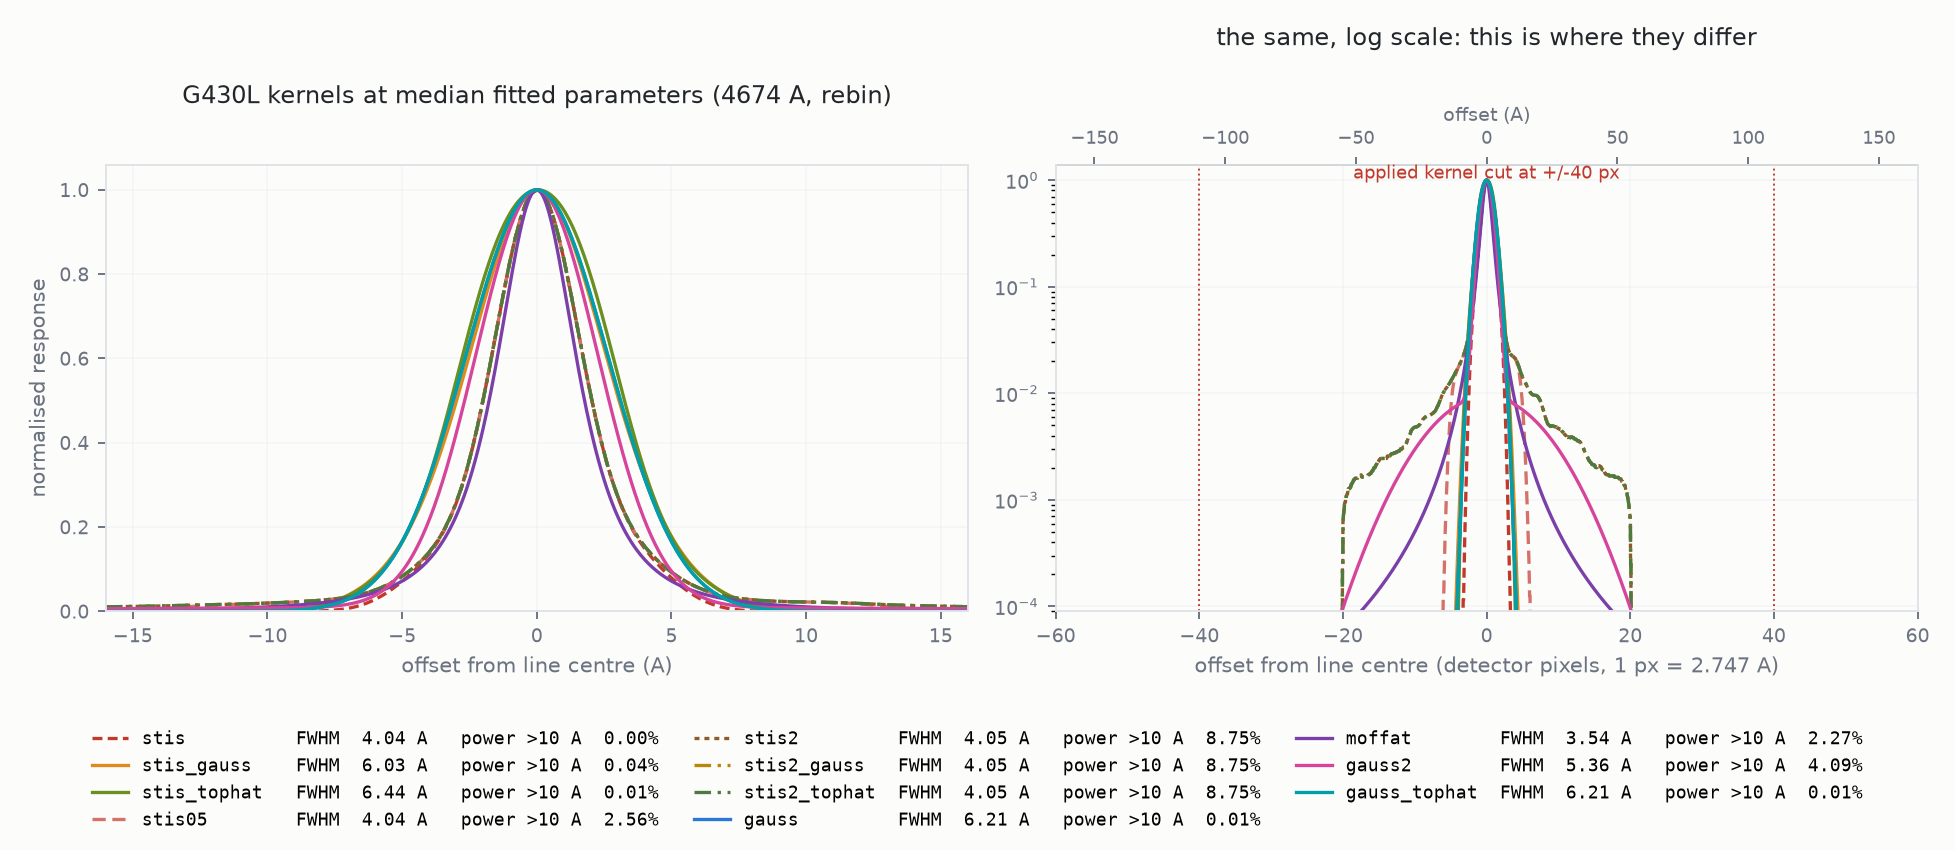
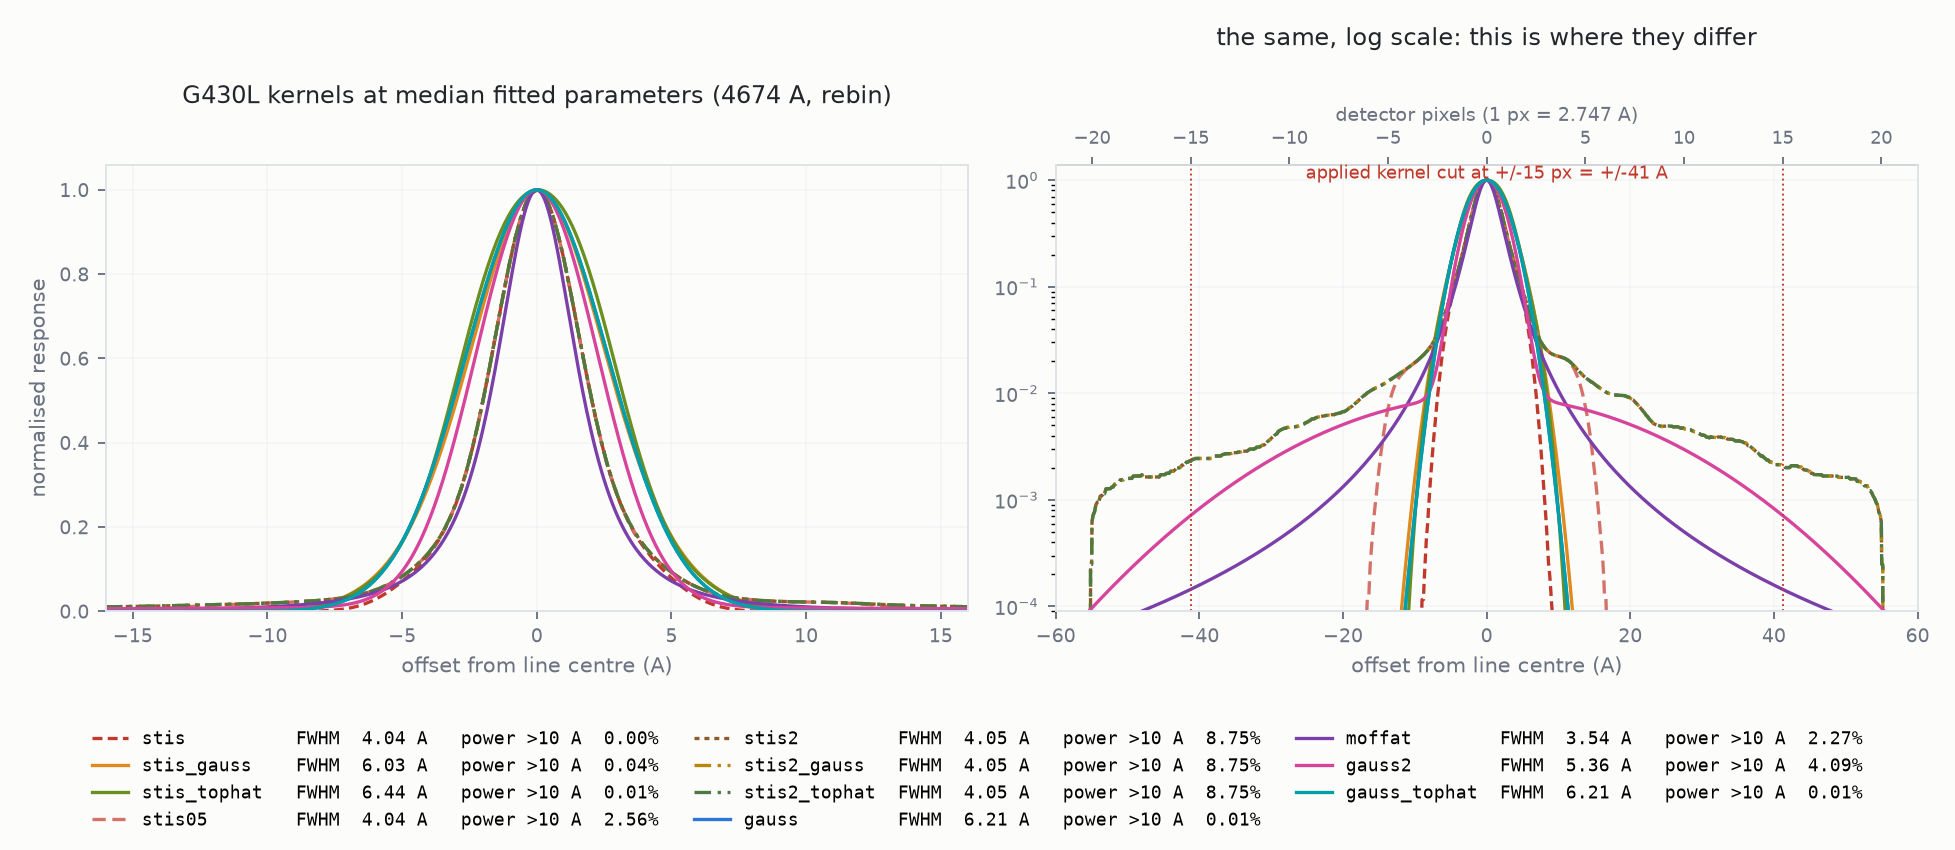
Cut the Moffat at +/-15 px; put the kernel log panel back on an Angstrom axis
TRUNCATION 40 px -> 15 px, i.e. 41 A on G430L and 73 A on G750L. The empirical
STIS profiles are compact -- they stop at +/-20 px -- and a kernel reaching
300 A makes a claim about scattered light at a distance nothing in this project
measures. Keeping the profile's effect local is the point.

The cost was measured, not assumed. Convolving a line-rich spectrum on ONE
uniform grid with no segment edges in it, against a +/-300 A (109 px) kernel,
over an interior window:

    +/-10 px  27 A    max 2.4e-04   rms 5.8e-05
    +/-15 px  41 A    max 9.8e-05   rms 2.6e-05   <- adopted
    +/-20 px  55 A    max 5.8e-05   rms 1.4e-05
    +/-40 px 110 A    max 1.2e-05   rms 3.2e-06

1e-4 is two orders below the 1% calibration floor the NGSL bands carry. End to
end, 15 px against the previous 40 px moves the smoothed model flux by 1.9e-4
max on G430L and 1.0e-4 on G750L, so nothing downstream was regenerated.

A trap worth recording: comparing truncations THROUGH broaden_ngsl rather than
through a bare convolution mixes in the per-segment edge replication, whose
margin also scales with the truncation radius. Done that way the comparison
comes out non-monotonic -- 40 px looking worse than 20 px on G750L -- which is
the edges moving and not the kernel. That is why the table above is from a
single uniform grid.

THE FIGURE. The log panel's x axis goes back to ANGSTROMS at +/-60, with
detector pixels as the secondary scale on top, which is the right way round:
[…]

diff --git a/explore/ngsl_lsf.py b/explore/ngsl_lsf.py
@@ -932,18 +932,24 @@ def plot_star(star, grating, lo, hi, wn, fn, ok, core, lines, drawn, best,
     print(f'    -> {out.relative_to(ROOT)}')
 
 
-def plot_kernels(rows, grating='G430L', half_px=60.0):
+def plot_kernels(rows, grating='G430L', half_A=60.0):
     """The profiles themselves, at the median fitted parameters.
 
-    The log panel runs to +/-`half_px` DETECTOR PIXELS, which is wider than the
-    +/-KERNEL_HALF grid the fits are done on, so the kernels are rebuilt here on
-    a grid that covers it. The FWHM and wing numbers in the legend are still
-    computed on the fitting grid, so they match data/ngsl_lsf.csv rather than
-    drifting with whatever the plot happens to show.
+    The log panel runs to +/-`half_A` ANGSTROMS, with a secondary axis in
+    detector pixels: the tabulated profiles stop at +/-20 px and the applied
+    truncation is stated in pixels, while the widths are in Angstroms, and
+    reading one off an axis in the other unit is an easy way to think a kernel
+    has changed when only its label has.
 
-    Pixels on the log panel because that is the unit the adopted truncation is
-    stated in (common.lsf.NGSL_TRUNC_PX), and the truncation is drawn on it --
-    a profile's behaviour outside that radius is not applied to anything.
+    The panel is widened past `half_A` if it would otherwise cut off the
+    truncation marker, which happens on G750L: 15 px is 41 A there on G430L but
+    73 A on G750L. A figure that annotates a line you cannot see is worse than
+    a slightly wider axis.
+
+    The kernels are rebuilt here on a grid covering the panel, which is wider
+    than the +/-KERNEL_HALF grid the fits are done on. The FWHM and wing numbers
+    in the legend are still computed on the FITTING grid, so they match
+    data/ngsl_lsf.csv rather than drifting with whatever the plot shows.
     """
     from common.specplot import style, SURFACE, INK, MUTED, HELD_C
     from common.lsf import NGSL_TRUNC_PX
@@ -952,7 +958,8 @@ def plot_kernels(rows, grating='G430L', half_px=60.0):
     lo, hi = dict((g[0], (g[1], g[2])) for g in GRATINGS)[grating]
     lam = 0.5 * (lo + hi)
     dl = np.arange(-KERNEL_HALF, KERNEL_HALF + STEP / 2, STEP)
-    wide = half_px * disp
+    trunc_A = NGSL_TRUNC_PX * disp
+    wide = max(half_A, 1.12 * trunc_A)
     dlw = np.arange(-wide, wide + STEP / 2, STEP)
 
     fig, ax = plt.subplots(1, 2, figsize=(11.5, 5.0))
@@ -974,7 +981,7 @@ def plot_kernels(rows, grating='G430L', half_px=60.0):
         lab = (f'{fam:<13} FWHM {f:5.2f} A   '
                f'power >10 A {100 * wing_power(k, dl, 10.0):5.2f}%')
         ax[0].plot(dl, k / k.max(), color=c, lw=1.4, label=lab, **dd)
-        ax[1].plot(dlw / disp, kw / kw.max(), color=c, lw=1.4, **dd)
+        ax[1].plot(dlw, kw / kw.max(), color=c, lw=1.4, **dd)
     ax[0].set_xlim(-16, 16)
     ax[0].set_ylim(0, 1.06)
     ax[0].set_ylabel('normalised response', fontsize=9, color=MUTED)
@@ -984,21 +991,17 @@ def plot_kernels(rows, grating='G430L', half_px=60.0):
 
     ax[1].set_yscale('log')
     ax[1].set_ylim(9e-5, 1.4)
-    ax[1].set_xlim(-half_px, half_px)
+    ax[1].set_xlim(-wide, wide)
     for sign in (-1, 1):
-        ax[1].axvline(sign * NGSL_TRUNC_PX, color=HELD_C, lw=.8, ls=':')
-    ax[1].text(0.0, 1.15, f'applied kernel cut at '
-               f'+/-{NGSL_TRUNC_PX:.0f} px', fontsize=7.5, color=HELD_C,
+        ax[1].axvline(sign * trunc_A, color=HELD_C, lw=.8, ls=':')
+    ax[1].text(0.0, 1.15, f'applied kernel cut at +/-{NGSL_TRUNC_PX:.0f} px '
+               f'= +/-{trunc_A:.0f} A', fontsize=7.5, color=HELD_C,
                ha='center', va='center')
-    ax[1].set_xlabel(f'offset from line centre (detector pixels, '
-                     f'1 px = {disp:.3f} A)', fontsize=9, color=MUTED)
-    # Both scales on the same panel. The tabulated profiles stop at +/-20 px,
-    # which is +/-55 A on G430L and +/-98 A on G750L, and reading that cutoff
-    # off an axis in the other unit is an easy way to think a kernel changed
-    # when only the label did.
-    top = ax[1].secondary_xaxis('top', functions=(lambda v: v * disp,
-                                                  lambda v: v / disp))
-    top.set_xlabel('offset (A)', fontsize=8, color=MUTED)
+    ax[1].set_xlabel('offset from line centre (A)', fontsize=9, color=MUTED)
+    top = ax[1].secondary_xaxis('top', functions=(lambda v: v / disp,
+                                                  lambda v: v * disp))
+    top.set_xlabel(f'detector pixels (1 px = {disp:.3f} A)', fontsize=8,
+                   color=MUTED)
     top.tick_params(labelsize=7.5, colors=MUTED)
     ax[1].set_title('the same, log scale: this is where they differ',
                     fontsize=10, color=INK, pad=26)

diff --git a/common/lsf.py b/common/lsf.py
@@ -115,12 +115,26 @@ NGSL_LSF_CORE = [(1675., 3058., 1.37, 1.373),
 # 142 A -- the same profile behaving differently in the two gratings for no
 # instrumental reason.
 #
-# 40 px discards almost nothing. At the adopted parameters the profile is
-# 8.2e-6 of peak at +/-40 px on G430L (110 A) and 2.0e-5 on G750L (195 A), and
-# the power beyond is 0.018% and 0.031% respectively -- renormalised away by
-# moffat_kernel, so no flux is lost, only reach. For scale, cutting at the
-# tabulated +/-20 px instead would discard 0.078% and 0.137%.
-NGSL_TRUNC_PX = 40.0
+# 15 px is 41 A on G430L and 73 A on G750L. It keeps the profile's effect LOCAL,
+# which is the point: the empirical STIS LSFs are compact, and a kernel that
+# reaches 300 A is making a claim about scattered light at a distance that
+# nothing here measures. The cost is small and was measured rather than assumed.
+# Convolving a line-rich spectrum on one uniform grid, no segment edges
+# involved, and comparing against a +/-300 A (109 px) kernel over an interior
+# window:
+#
+#   truncation        max rel error   rms rel error
+#   +/-10 px  27 A       2.4e-04         5.8e-05
+#   +/-15 px  41 A       9.8e-05         2.6e-05      <- adopted
+#   +/-20 px  55 A       5.8e-05         1.4e-05
+#   +/-40 px 110 A       1.2e-05         3.2e-06
+#
+# At +/-15 px the profile is 1.6e-4 of peak on G430L and 3.8e-4 on G750L, and
+# the power discarded is 0.14% and 0.25% -- renormalised away by moffat_kernel,
+# so no flux is lost, only reach. An error of 1e-4 is two orders below the 1%
+# calibration floor the NGSL bands carry, so this is a free choice made on
+# physical grounds rather than a trade.
+NGSL_TRUNC_PX = 15.0
 
 
 # --- the tabulated STIS profile ----# --- the tabulated STIS profile -------------------------------------------

diff --git a/docs/LSF.md b/docs/LSF.md
@@ -23,7 +23,7 @@ instrument.
 | core FWHM, G750L | **8.38 ± 0.45 Å** (4.879 Å/px) |
 | behaviour with λ | constant in **Ångströms** within a grating, jumping at the splices |
 | sampling | fitted **with pixel integration**; must be applied that way |
-| truncation | **±40 detector pixels** — 110 Å (G430L), 195 Å (G750L) |
+| truncation | **±15 detector pixels** — 41 Å (G430L), 73 Å (G750L) |
 | power beyond ±10 Å | 2.4% (G430L) — a Gaussian of the same core puts 0.01% there |
 
 Uncertainties are star-to-star NMAD over 9 stars. G230LB is not measured — no
@@ -218,31 +218,49 @@ not support it.
 ## Where the Moffat is cut off
 
 A Moffat has no natural edge, so the truncation radius is a choice, and
-`NGSL_TRUNC_PX = 40` states it in **detector pixels** — 110 Å on G430L, 195 Å on
+`NGSL_TRUNC_PX = 15` states it in **detector pixels** — 41 Å on G430L, 73 Å on
 G750L.
 
 Pixels rather than FWHM, for two reasons. It is the unit the instrument works
 in; and it keeps the kernel's reach comparable to the tabulated STIS profiles,
-which stop at ±20 px. Cutting at a fixed number of FWHM instead — the previous
+which stop at ±20 px. Cutting at a fixed number of FWHM instead — an earlier
 convention, 40 × FWHM — gave the G750L kernel a 335 Å reach against G430L's
 142 Å, the same profile behaving differently in the two gratings for no
 instrumental reason.
 
-At ±40 px the profile is down to **8.2 × 10⁻⁶** of peak on G430L and
-2.0 × 10⁻⁵ on G750L, and the discarded power is **0.018%** and **0.031%** —
-renormalised away by `moffat_kernel`, so no flux is lost, only reach. Switching
-from 40 × FWHM to 40 px changes the smoothed model flux by at most 1.4 × 10⁻⁵
-(G430L) and 2.6 × 10⁻⁴ (G750L), so nothing downstream needed regenerating.
+15 px keeps the profile's effect **local**, which is the point: the empirical
+STIS LSFs are compact, and a kernel reaching 300 Å makes a claim about scattered
+light at a distance nothing here measures. The cost was measured rather than
+assumed — convolving a line-rich spectrum on one uniform grid with no segment
+edges involved, against a ±300 Å (109 px) kernel, over an interior window:
 
-For scale, cutting at the tabulated ±20 px instead would discard 0.078% and
-0.137%.
+| truncation | | max rel. error | rms rel. error |
+|---|---|---|---|
+| ±10 px | 27 Å | 2.4 × 10⁻⁴ | 5.8 × 10⁻⁵ |
+| **±15 px** | **41 Å** | **9.8 × 10⁻⁵** | **2.6 × 10⁻⁵** |
+| ±20 px | 55 Å | 5.8 × 10⁻⁵ | 1.4 × 10⁻⁵ |
+| ±40 px | 110 Å | 1.2 × 10⁻⁵ | 3.2 × 10⁻⁶ |
+
+At ±15 px the profile is 1.6 × 10⁻⁴ of peak on G430L and 3.8 × 10⁻⁴ on G750L,
+and the power discarded is **0.14%** and **0.25%** — renormalised away by
+`moffat_kernel`, so no flux is lost, only reach. An error of 10⁻⁴ is two orders
+below the 1% calibration floor the NGSL bands carry, so this is a free choice
+made on physical grounds rather than a trade.
+
+**Beware the obvious test of this.** Comparing two truncations through
+`broaden_ngsl` rather than through a bare convolution mixes in the per-segment
+edge replication, whose margin also scales with the truncation radius. Done that
+way the comparison comes out non-monotonic — ±40 px looking *worse* than ±20 px
+on G750L — which is the edges moving, not the kernel. The table above is from a
+single uniform grid with no segment boundaries in it.
 
 **The fit used a different radius, and that is fine.** `explore/ngsl_lsf.py`
-fits on a ±80 Å grid for every profile, which is narrower than 40 px on both
-gratings. Truncation was measured not to move the fitted width: at 40 / 80 /
-150 / 250 Å the Moffat fit returns rms 0.666 / 0.665 / 0.665 / 0.665 % and FWHM
-4.55 Å throughout. So the fitted parameters do not depend on the radius, and the
-applied radius is chosen for the reasons above rather than to match the fit.
+fits on a ±80 Å grid for every profile, which is wider than 15 px on G430L and
+slightly wider on G750L. Truncation was measured not to move the fitted width:
+at 40 / 80 / 150 / 250 Å the Moffat fit returns rms 0.666 / 0.665 / 0.665 /
+0.665 % and FWHM 4.55 Å throughout. So the fitted parameters do not depend on
+the radius, and the applied radius is chosen for the reasons above rather than
+to match the fit.
 
 ## What the cores can and cannot settle
 

diff --git a/PLAN.md b/PLAN.md
@@ -194,15 +194,14 @@ over 117 line-star combinations, so none of the residual is a kernel error.
 
 ### LSF conventions, set deliberately
 
-* **The Moffat is truncated at +/-40 DETECTOR PIXELS** (`NGSL_TRUNC_PX`), 110 A
-  on G430L and 195 A on G750L, not at a fixed number of FWHM. Pixels because
+* **The Moffat is truncated at +/-15 DETECTOR PIXELS** (`NGSL_TRUNC_PX`), 41 A
+  on G430L and 73 A on G750L, not at a fixed number of FWHM. Pixels because
   that is the unit the instrument works in, and because it keeps the reach
-  comparable to the tabulated STIS profiles, which stop at +/-20 px. The old
-  40 x FWHM convention gave G750L a 335 A reach against G430L's 142 A -- the
-  same profile behaving differently per grating for no instrumental reason. At
-  +/-40 px the profile is 8.2e-6 of peak (G430L) and the discarded power is
-  0.018%, renormalised away. The change moves the smoothed flux by <=2.6e-4, so
-  nothing downstream was regenerated.
+  comparable to the tabulated STIS profiles, which stop at +/-20 px; 15 px
+  because the empirical profiles are compact and a kernel reaching 300 A claims
+  something about scattered light at a distance nothing here measures. Measured
+  against an effectively untruncated kernel the error is 9.8e-5 max / 2.6e-5
+  rms, two orders below the 1% band calibration floor.
 * **One parser for the STIS tables**: `common.lsf.stis_table` /
   `stis_kernel`, imported by `explore/ngsl_lsf.py` and
   `explore/lsf_resolution.py`. Consolidating them found an off-by-one in
